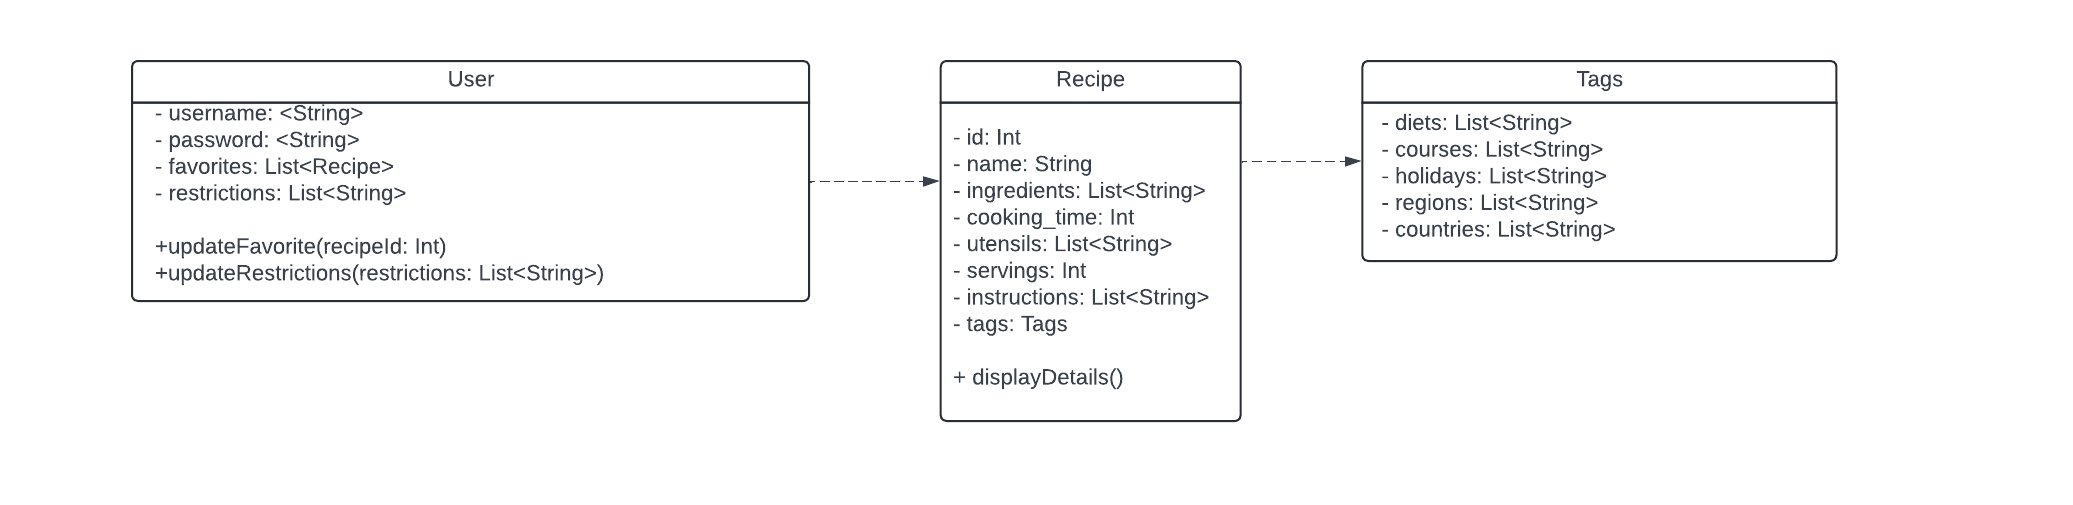
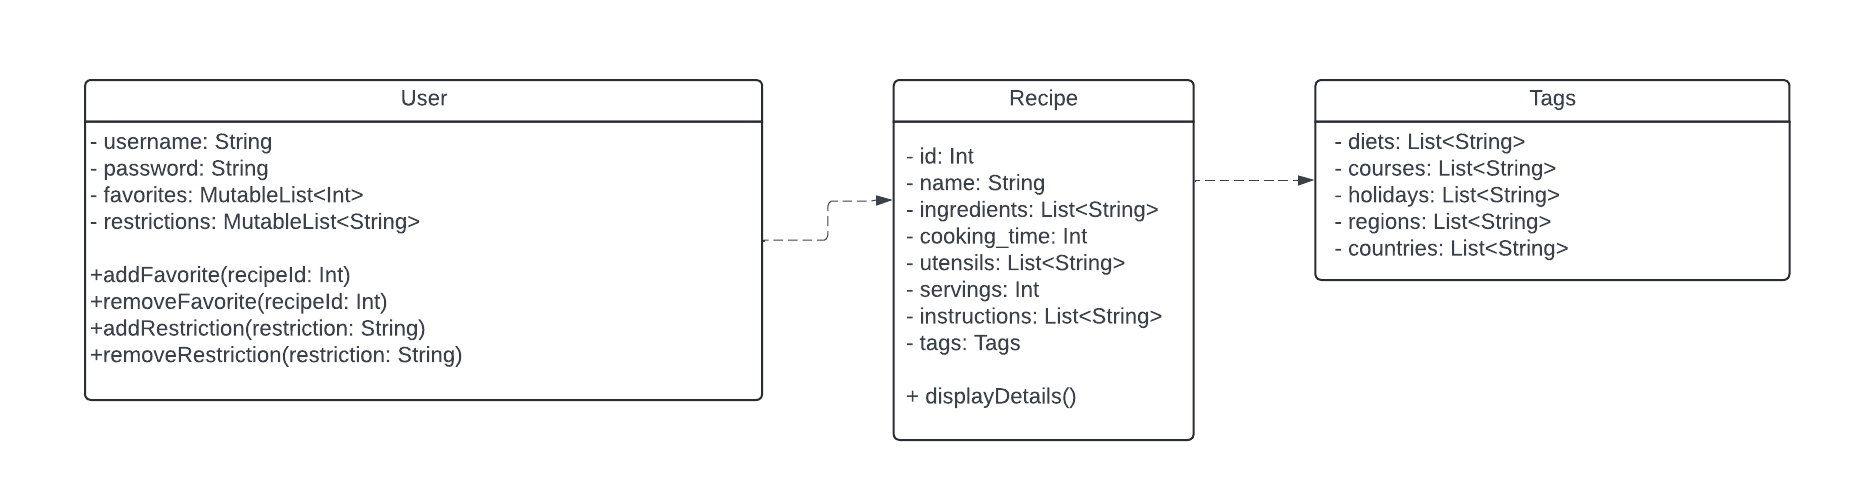
Alteração nos tipos dos atributos da classe User Implementação dos métodos Criação de testes unitários

diff --git a/src/Totec.kt b/src/Totec.kt
@@ -1,0 +1,54 @@
+class User(
+    val username: String,
+    var password: String,
+    var favorites: MutableList<Int> = mutableListOf(),
+    var restrictions: MutableList<String>
+) {
+    fun addFavorite(recipeId: Int){
+        // Add recipe to favorites
+        this.favorites.add(recipeId)
+    }
+    fun removeFavorite(recipeId: Int){
+        // Remove recipe from favorites
+        this.favorites.remove(recipeId)
+    }
+    fun addRestriction(restriction: String){
+        // Add restriction to user
+        this.restrictions.add(restriction)
+    }
+    fun removeRestriction(restriction: String){
+        // Remove restriction from user
+        this.restrictions.remove(restriction)
+    }
+}
+
+class Recipe(
+    val id: Int,
+    val name: String,
+    val ingredients: List<String>,
+    val cookingTime: Int,
+    val utensils: List<String>,
+    val servings: Int,
+    val instructions: List<String>,
+    val tags: Tags
+) {
+    fun displayDetails(){
+        // Display recipe details
+        println("Name: $name")
+        println("Ingredients: $ingredients")
+        println("Cooking Time: $cookingTime")
+        println("Utensils: $utensils")
+        println("Servings: $servings")
+        println("Instructions: $instructions")
+        println("Tags: $tags")
+    }
+}
+
+class Tags(
+    val diets: List<String>,
+    val courses: List<String>,
+    val holidays: List<String>,
+    val regions: List<String>,
+    val countries: List<String>
+)
+

diff --git a/test/UserTest.kt b/test/UserTest.kt
@@ -1,0 +1,18 @@
+import org.junit.jupiter.api.Test
+import org.junit.jupiter.api.Assertions.assertEquals
+
+class UserTest {
+    @Test
+    fun testUser(){
+        val user = User("user", "password", mutableListOf(), mutableListOf())
+        user.addFavorite(1)
+        user.addFavorite(2)
+        user.addFavorite(3)
+        user.addRestriction("vegan")
+        user.addRestriction("gluten-free")
+        user.removeFavorite(2)
+        user.removeRestriction("vegan")
+        assertEquals(user.favorites, mutableListOf(1, 3))
+        assertEquals(user.restrictions, mutableListOf("gluten-free"))
+    }
+}
